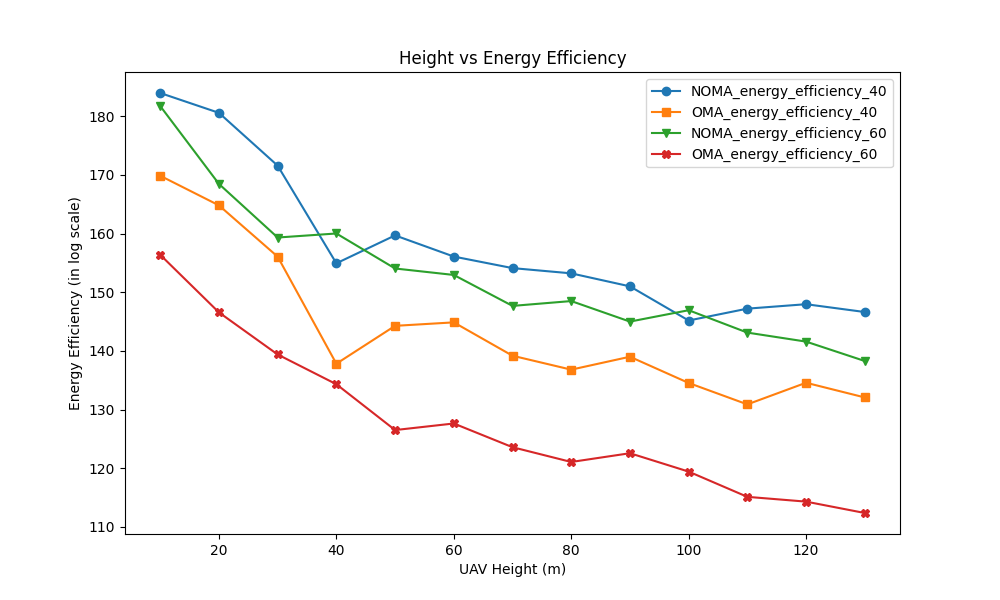
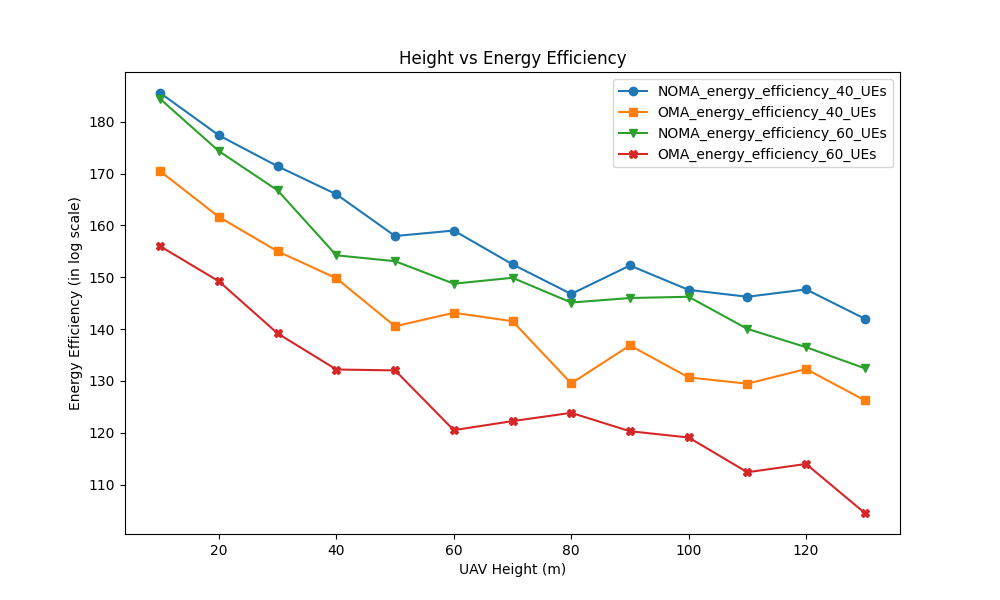
graph labels changed

diff --git a/plot_height_vs_power.py b/plot_height_vs_power.py
@@ -8,10 +8,10 @@ data = pd.read_csv(csv_file_name)
 # Plot 1: Height vs NOMA_total_power and OMA_total_power
 plt.figure(figsize=(10, 6))
 plt.plot(data['height'], [46]*len(data['height']), 'r--', label='maximum power')
-plt.plot(data['height'], data['NOMA_total_power_40'], label='NOMA_total_power_40', marker='o')
-plt.plot(data['height'], data['OMA_total_power_40'], label='OMA_total_power_40', marker='s')
-plt.plot(data['height'], data['NOMA_total_power_60'], label='NOMA_total_power_60', marker='v')
-plt.plot(data['height'], data['OMA_total_power_60'], label='OMA_total_power_60', marker='X')
+plt.plot(data['height'], data['NOMA_total_power_40'], label='NOMA_total_power_40_UEs', marker='o')
+plt.plot(data['height'], data['OMA_total_power_40'], label='OMA_total_power_40_UEs', marker='s')
+plt.plot(data['height'], data['NOMA_total_power_60'], label='NOMA_total_power_60_UEs', marker='v')
+plt.plot(data['height'], data['OMA_total_power_60'], label='OMA_total_power_60_UEs', marker='X')
 plt.xlabel('UAV Height (m)')
 plt.ylabel('Total Power (dBm)')
 plt.title('Height vs Total Power')
@@ -20,10 +20,10 @@ plt.savefig('Fig_Height_vs_Total_Power.png')
 
 # Plot 2: Height vs NOMA_energy_efficiency and OMA_energy_efficiency
 plt.figure(figsize=(10, 6))
-plt.plot(data['height'], data['NOMA_energy_efficiency_40'], label='NOMA_energy_efficiency_40', marker='o')
-plt.plot(data['height'], data['OMA_energy_efficiency_40'], label='OMA_energy_efficiency_40', marker='s')
-plt.plot(data['height'], data['NOMA_energy_efficiency_60'], label='NOMA_energy_efficiency_60', marker='v')
-plt.plot(data['height'], data['OMA_energy_efficiency_60'], label='OMA_energy_efficiency_60', marker='X')
+plt.plot(data['height'], data['NOMA_energy_efficiency_40'], label='NOMA_energy_efficiency_40_UEs', marker='o')
+plt.plot(data['height'], data['OMA_energy_efficiency_40'], label='OMA_energy_efficiency_40_UEs', marker='s')
+plt.plot(data['height'], data['NOMA_energy_efficiency_60'], label='NOMA_energy_efficiency_60_UEs', marker='v')
+plt.plot(data['height'], data['OMA_energy_efficiency_60'], label='OMA_energy_efficiency_60_UEs', marker='X')
 plt.xlabel('UAV Height (m)')
 plt.ylabel('Energy Efficiency (in log scale)')
 plt.title('Height vs Energy Efficiency')
